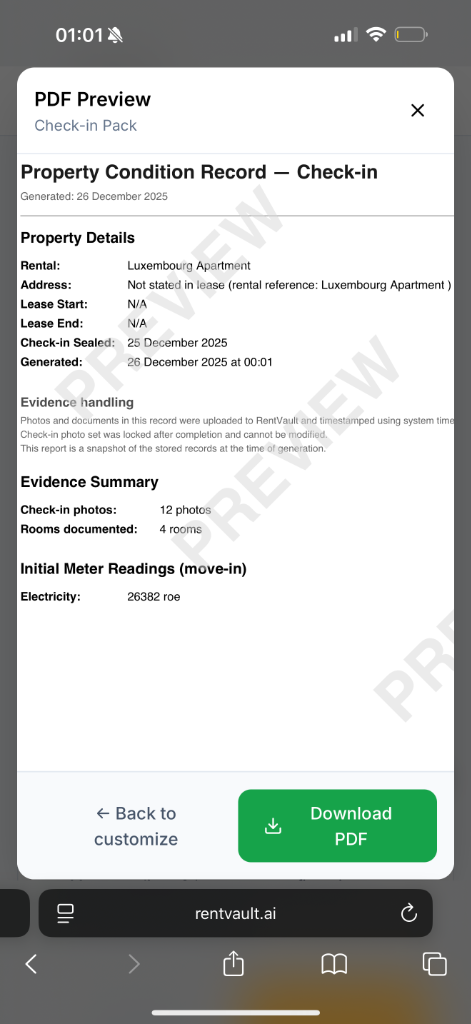
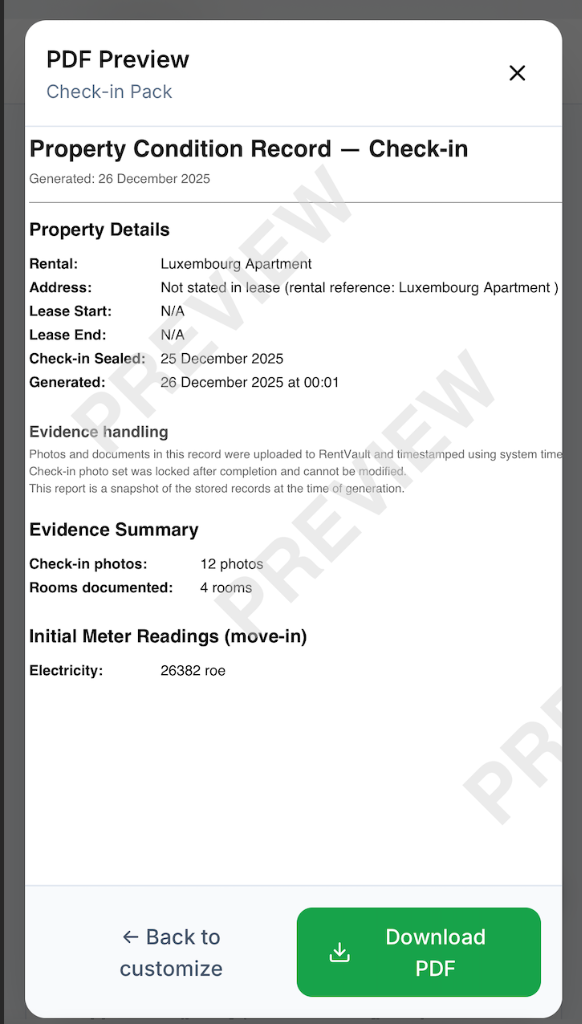
Deploy final cropped screenshots: Evidence sealed + Reminder (homepage), PDF preview (pricing)

diff --git a/src/app/page.tsx b/src/app/page.tsx
@@ -152,15 +152,31 @@ export default function Home() {
                                 </p>
                             </div>
 
-                            {/* Evidence Sealed Screenshot */}
-                            <div className="mt-8 flex justify-center">
-                                <div className="max-w-[280px] rounded-2xl overflow-hidden shadow-lg border border-slate-200">
-                                    <img
-                                        src="/screenshots/evidence-sealed-email.png"
-                                        alt="Evidence sealed confirmation email showing permanently sealed status"
-                                        className="w-full h-auto"
-                                        loading="lazy"
-                                    />
+                            {/* Screenshots - Evidence Sealed (Primary) + Reminder (Secondary) */}
+                            <div className="mt-8 grid grid-cols-1 sm:grid-cols-2 gap-6">
+                                {/* Primary: Evidence Sealed */}
+                                <div className="flex flex-col items-center">
+                                    <div className="max-w-[280px] rounded-2xl overflow-hidden shadow-lg border border-slate-200">
+                                        <img
+                                            src="/screenshots/evidence-sealed.png"
+                                            alt="Evidence sealed confirmation showing permanently sealed status with timestamp"
+                                            className="w-full h-auto"
+                                            loading="lazy"
+                                        />
+                                    </div>
+                                    <p className="text-xs text-slate-500 mt-3 text-center">Evidence is sealed with a system timestamp</p>
+                                </div>
+                                {/* Secondary: Reminder Email */}
+                                <div className="flex flex-col items-center">
+                                    <div className="max-w-[280px] rounded-2xl overflow-hidden shadow-lg border border-slate-200">
+                                        <img
+                                            src="/screenshots/reminder-email.png"
+                                            alt="Deadline reminder email showing upcoming landlord inspection"
+                                            className="w-full h-auto"
+                                            loading="lazy"
+                                        />
+                                    </div>
+                                    <p className="text-xs text-slate-500 mt-3 text-center">Deadline reminder emails keep you informed</p>
                                 </div>
                             </div>
 

diff --git a/src/app/pricing/page.tsx b/src/app/pricing/page.tsx
@@ -435,7 +435,7 @@ export default function PricingPage() {
                             loading="lazy"
                         />
                     </div>
-                    <p className="text-xs text-slate-500 text-center mt-3">Example Check-in Pack preview</p>
+                    <p className="text-xs text-slate-500 text-center mt-3">Reports can be exported as formal PDFs</p>
                 </div>
 
                 {/* Data retention info */}
